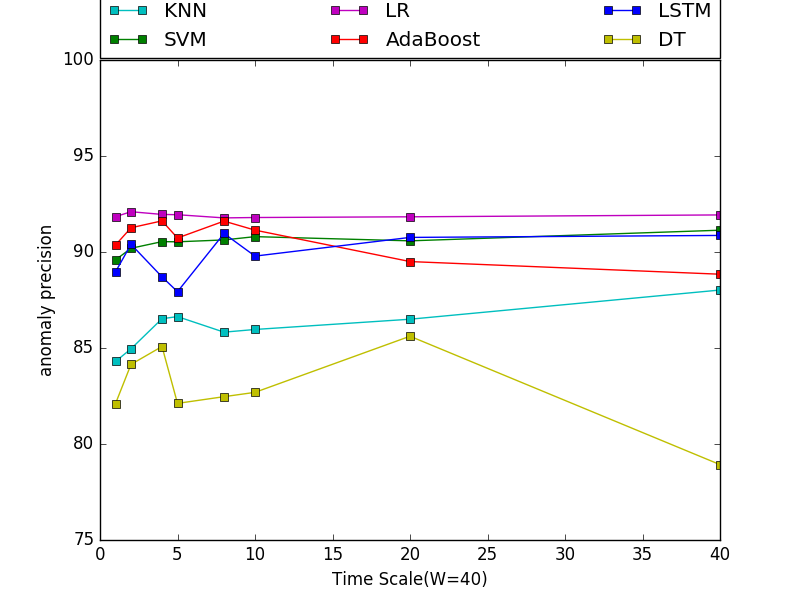
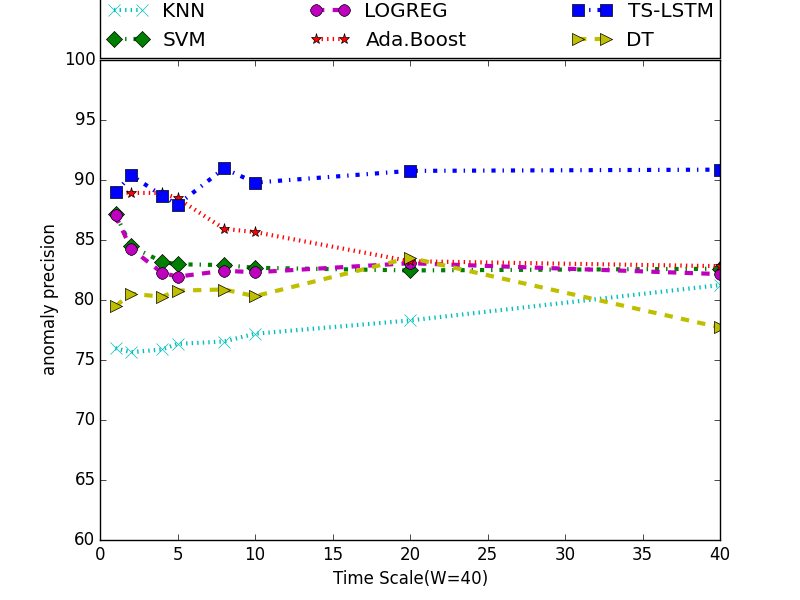
Add Plotting along with window size and time scale script.

diff --git a/BalancedDistribution/BD_plotting_time_scale.py b/BalancedDistribution/BD_plotting_time_scale.py
@@ -3,6 +3,7 @@ import random
 import numpy as np
 import collections
 import matplotlib.pyplot as plt
+from PIL import Image
 def get_all_subfactors(number):
     temp_list = []
     temp_list.append(1)
@@ -109,7 +110,7 @@ def Main(filename,window_size_list,lstm_size_list,Evaluation_List):
 
 if __name__=='__main__':
     global Normalization_Method
-    Normalization_Method = "_L2norm-1"
+    Normalization_Method = "_L2norm"
     filename = "B_C_N_S"
     if filename == "B_Code_Red_I" or filename == "B_Slammer":
         window_size_list = [10,20,30,40,50]
@@ -119,14 +120,19 @@ if __name__=='__main__':
             y_upper = 95
         else:
             y_upper = 100
-        window_size_list = [50]
-        y_base = 75
+        window_size_list = [40]
+        y_base = 60
 
     lstm_size_list = [30]
     Evaluation_List = ["ACC_R","ACC_A","ACC_L","Auc","G_mean","F1_score"]
 
     #color_list = ['r','g','b','c','m','y']
-    color_dict = {"KNN":'c',"AdaBoost":'r',"DT":'y',"LR":'m',"SVM":'g',"LSTM":'b'}
+    #color_dict = {"KNN":'c',"AdaBoost":'r',"DT":'y',"LR":'m',"SVM":'g',"LSTM":'b'}
+    #color_dict = {"KNN":'cx',"AdaBoost":'r*',"DT":'y>',"LR":'mo',"SVM":'gD',"LSTM":'bs'}
+    #line_dict = {"KNN":'-.',"AdaBoost":':',"DT":'--',"LR":'--',"SVM":':',"LSTM":'-.'}
+    color_dict = {"KNN":'cx',"AdaBoost":'r*',"DT":'y>',"LR":'mo',"SVM":'gD',"LSTM":'bs'}
+    method_dict = {"KNN":"KNN","AdaBoost":"Ada.Boost","DT":"DT","LR":"LOGREG","SVM":"SVM","LSTM":"TS-LSTM"}
+    line_dict = {"KNN":':',"AdaBoost":':',"DT":'--',"LR":'--',"SVM":'-.',"LSTM":'-.'}
     Evaluation_Dict,Evaluation_Dict_Max_Time_Scale,time_scale_size_list = Main(filename,window_size_list,lstm_size_list,Evaluation_List)
     if not os.path.isdir(os.path.join(os.getcwd(),"Images_W_"+str(window_size_list[0])+"_T_"+Normalization_Method)):
         os.makedirs(os.path.join(os.getcwd(),"Images_W_"+str(window_size_list[0])+"_T_"+Normalization_Method))
@@ -146,7 +152,7 @@ if __name__=='__main__':
             print("For "+eachMethod+": the max "+each_evalk+ " is "+str(round(np.max(Y),1)))
             #print(X)
             print(Y_max_time_scale)
-            plt.plot(X,Y,color_dict[eachMethod]+"-s",label=eachMethod)
+            plt.plot(X,Y,color_dict[eachMethod]+line_dict[eachMethod],linewidth=3,markersize=8,label=method_dict[eachMethod])
             #for i, txt in enumerate(Y_max_time_scale):
                 #plt.annotate('('+str(txt)+')', xy=(X[i],Y[i]),xycoords='data',xytext=(X[i],Y[i]),size = 8)
 
@@ -160,11 +166,13 @@ if __name__=='__main__':
             count += 1
         #print("start"),
         if each_evalk=="ACC_R":
-            plt.ylabel("regular precision")
+            plt.ylabel("Precision")
         elif each_evalk=="ACC_A":
             plt.ylabel("anomaly precision")
         elif each_evalk=="ACC_L":
-            plt.ylabel("accuracy")
+            plt.ylabel("Accuracy")
+        elif each_evalk=="F1_score":
+            plt.ylabel("F-score")
         else:
             plt.ylabel(each_evalk)
         plt.xlabel('Time Scale(W='+str(window_size_list[0])+')')
@@ -172,6 +180,12 @@ if __name__=='__main__':
         #plt.show()
 
         plt.savefig(os.path.join(os.path.join(os.getcwd(),"Images_W_"+str(window_size_list[0])+"_T_"+Normalization_Method),filename+'_'+title+".png"))
+        #fname = os.path.join(os.path.join(os.getcwd(),"Images_W_"+str(window_size_list[0])+"_T_"+Normalization_Method),filename+'_'+title+".png")
+        #image = Image.open(fname).convert("L")
+        #arr = np.asarray(image)
+        #print(arr.shape)
+        #plt.imshow(arr)
+        plt.show()
 #import matplotlib.rcsetup as rcsetup
 #print(rcsetup.all_backends)
 #import matplotlib

diff --git a/BalancedDistribution/BD_plotting_window_size.py b/BalancedDistribution/BD_plotting_window_size.py
@@ -103,6 +103,7 @@ if __name__=='__main__':
     global Normalization_Method
     Normalization_Method = "_L2norm"
     filename = "B_C_N_S"
+    marker_style = dict(linestyle=':', color='cornflowerblue', markersize=10)
     if filename == "B_Code_Red_I" or filename == "B_Slammer":
         window_size_list = [10,20,30,40,50]
         y_base = 50
@@ -118,10 +119,18 @@ if __name__=='__main__':
     Evaluation_List = ["ACC_R","ACC_A","ACC_L","Auc","G_mean","F1_score"]
 
     #color_list = ['r','g','b','c','m','y']
-    color_dict = {"KNN":'c',"AdaBoost":'r',"DT":'y',"LR":'m',"SVM":'g',"LSTM":'b'}
+    #color_dict = {"KNN":'c>',"AdaBoost":'r<',"DT":'yo',"LR":'m',"SVM":'g',"LSTM":'b'}
+
+    #color_dict = {"KNN":'cx',"AdaBoost":'rs',"DT":'y>',"LR":'mo',"SVM":'gD',"LSTM":'b*'}
+    color_dict = {"KNN":'cx',"AdaBoost":'r*',"DT":'y>',"LR":'mo',"SVM":'gD',"LSTM":'bs'}
+    method_dict = {"KNN":"KNN","AdaBoost":"Ada.Boost","DT":"DT","LR":"LOGREG","SVM":"SVM","LSTM":"TS-LSTM"}
+    #line_dict = {"KNN":':',"AdaBoost":'-.',"DT":'-.',"LR":'--',"SVM":':',"LSTM":'--'}
+    line_dict = {"KNN":':',"AdaBoost":':',"DT":'--',"LR":'--',"SVM":'-.',"LSTM":'-.'}
+
     Evaluation_Dict,Evaluation_Dict_Max_Time_Scale = Main(filename,window_size_list,lstm_size_list,Evaluation_List)
-    if not os.path.isdir(os.path.join(os.getcwd(),"Images_W_"+Normalization_Method)):
-        os.makedirs(os.path.join(os.getcwd(),"Images_W_"+Normalization_Method))
+
+    if not os.path.isdir(os.path.join(os.getcwd(),"Images_WWW_"+Normalization_Method)):
+        os.makedirs(os.path.join(os.getcwd(),"Images_WWW_"+Normalization_Method))
 
 
     for each_evalk,each_evalv in Evaluation_Dict.items():
@@ -139,9 +148,9 @@ if __name__=='__main__':
             print("For "+eachMethod+": the max "+each_evalk+ " is "+str(round(np.max(Y),1)))
             #print(X)
             #print(Y_max_time_scale)
-            plt.plot(X,Y,color_dict[eachMethod]+"s-",label=eachMethod)
+            plt.plot(X,Y,color_dict[eachMethod]+line_dict[eachMethod],linewidth=3,markersize=8,label=method_dict[eachMethod])
             for i, txt in enumerate(Y_max_time_scale):
-                plt.annotate('('+str(txt)+')', xy=(X[i],Y[i]),xycoords='data',xytext=(X[i],Y[i]),size = 8)
+                plt.annotate('('+str(txt)+')', xy=(X[i],Y[i]),xycoords='data',xytext=(X[i],Y[i]),size = 10)
 
 
             plt.xlim(10,window_size_list[-1]+5)
@@ -158,13 +167,20 @@ if __name__=='__main__':
         elif each_evalk=="ACC_A":
             plt.ylabel("anomaly precision")
         elif each_evalk=="ACC_L":
-            plt.ylabel("accuracy")
+            plt.ylabel("Accuracy")
+        elif each_evalk=="F1_score":
+            plt.ylabel("F-score")
         else:
             plt.ylabel(each_evalk)
         plt.xlabel('Window Size')
         #plt.show()
 
-        plt.savefig(os.path.join(os.path.join(os.getcwd(),"Images_W_"+Normalization_Method),filename+'_'+title+".png"))
+        plt.savefig(os.path.join(os.path.join(os.getcwd(),"Images_WWW_"+Normalization_Method),filename+'_'+title+".png"))
+        #image = plt.imread(os.path.join(os.path.join(os.getcwd(),"Images_W_"+Normalization_Method),filename+'_'+title+".png"))
+        #arr = np.asarray(image)
+        #plt.imshow(arr, cmap='gray')
+        plt.show()
+
 #import matplotlib.rcsetup as rcsetup
 #print(rcsetup.all_backends)
 #import matplotlib

diff --git a/BalancedDistribution/BD_S.py b/BalancedDistribution/BD_S.py
@@ -93,7 +93,9 @@ def LoadData(input_data_path,filename):
                 #print(each)
                 if val[-1].strip()== negative_flag:
                     val[-1] = negative_sign
-                #else:
+                else:
+                    if val[-1].strip() == '-1.0':
+                        val[-1] = '0'
                     #val[-1] = positive_sign
                 try:
                     val=map(lambda a:float(a),val)
@@ -169,9 +171,7 @@ def MyEvaluation(Y_Testing, Result):
         for tab1 in range(len(Result)):
             temp_result = map(lambda a:int(round(a)),Result[tab1])
             temp_true = map(lambda a:int(round(a)),Y_Testing[tab1])
-            print(type(temp_result))
-            print(temp_result)
-            print(temp_true)
+
             if list(temp_result) == list(temp_true):
                 acc += 1
     return round(float(acc)/len(Result),3)
@@ -228,9 +228,9 @@ def Main(Method_Dict,filename,window_size_label,lstm_size,window_size=0,time_sca
     Pos_Data = Data_[PositiveIndex]
     Neg_Data = Data_[NegativeIndex]
 
-    print(len(Data_[PositiveIndex,-1]))
+    print((Data_[PositiveIndex,-1]))
 
-    print(len(Data_[NegativeIndex,-1]))
+    print((Data_[NegativeIndex,-1]))
 
     Auc_list = {}
     ACC_R_list = {}
@@ -301,7 +301,7 @@ def Main(Method_Dict,filename,window_size_label,lstm_size,window_size=0,time_sca
                 cross_folder_f1_list=[]
 
                 for tab_cross in range(cross_folder):
-
+                    if tab_cross!=2:continue
                     Positive_Data_Index_Training=[]
                     Positive_Data_Index_Testing=[]
                     Negative_Data_Index_Training=[]
@@ -328,7 +328,7 @@ def Main(Method_Dict,filename,window_size_label,lstm_size,window_size=0,time_sca
 
                     #print(Training_Data_Index)
 
-                    Training_Data_Index = map(lambda a:int(a),Training_Data_Index)
+                    #Training_Data_Index = map(lambda a:int(a),Training_Data_Index)
 
                     #print(Training_Data_Index)
 
@@ -340,7 +340,7 @@ def Main(Method_Dict,filename,window_size_label,lstm_size,window_size=0,time_sca
 
                     Testing_Data_Index.sort()
 
-                    Testing_Data_Index = map(lambda a:int(a),Testing_Data_Index)
+                    #Testing_Data_Index = map(lambda a:int(a),Testing_Data_Index)
 
                     Testing_Data = Data_[Testing_Data_Index,:]
 
@@ -376,7 +376,7 @@ def Main(Method_Dict,filename,window_size_label,lstm_size,window_size=0,time_sca
                             model.add(Activation("sigmoid"))
                             model.compile(optimizer='adam', loss='binary_crossentropy', metrics=['accuracy'])
 
-                            model.fit(X_Training, Y_Training, batch_size=batch_size, nb_epoch=20)
+                            model.fit(X_Training, Y_Training,validation_data=(X_Testing,Y_Testing), batch_size=batch_size, nb_epoch=100)
                             #history = History()
                             #print("HHHHHHHHHHHHHHHHHHHHHH")
                             #print(history)

diff --git a/BalancedDistribution/Plot_Traing_Valid_Loss.py b/BalancedDistribution/Plot_Traing_Valid_Loss.py
@@ -1,27 +1,59 @@
 import matplotlib.pyplot as plt
+filename = "Loss_Ploting_40_8_c1.txt"
+Loss_List_1 = []
+Val_Loss_List_1 = []
+with open(filename)as fin:
+    for each in fin.readlines():
+        if 'loss' in each:
+            loss_index = each.strip().index('loss:')
+            val_loss_index = each.strip().index('val_loss:')
+            Loss_List_1.append(float(each.strip()[loss_index+6:loss_index+12]))
+            Val_Loss_List_1.append(float(each.strip()[val_loss_index+10:val_loss_index+16]))
+X1 = []
+if len(Loss_List_1)==len(Val_Loss_List_1):
+    for tab in range(len(Loss_List_1)):
+        X1.append(tab+1)
 
-class EpochDrawer(object):
-    '''
-    takes the history of keras.models.Sequential().fit() and
-    plots training and validation loss over the epochs
-    '''
-    def __init__(self, history, save_filename = None):
+filename = "Loss_Ploting_40_8_c2.txt"
+Loss_List_2 = []
+Val_Loss_List_2 = []
+with open(filename)as fin:
+    for each in fin.readlines():
+        if 'loss' in each:
+            loss_index = each.strip().index('loss:')
+            val_loss_index = each.strip().index('val_loss:')
+            Loss_List_2.append(float(each.strip()[loss_index+6:loss_index+12]))
+            Val_Loss_List_2.append(float(each.strip()[val_loss_index+10:val_loss_index+16]))
 
-        self.x = history['epoch']
-        self.legend = ['loss']
 
-        plt.plot(self.x, history['loss'], marker='.')
 
-        if 'val_loss' in history:
-            self.legend.append('val loss')
-            plt.plot(self.x, history['val_loss'], marker='.')
+filename = "Loss_Ploting_40_8_c3.txt"
+Loss_List_3 = []
+Val_Loss_List_3 = []
+with open(filename)as fin:
+    for each in fin.readlines():
+        if 'loss' in each:
+            loss_index = each.strip().index('loss:')
+            val_loss_index = each.strip().index('val_loss:')
+            Loss_List_3.append(float(each.strip()[loss_index+6:loss_index+12]))
+            Val_Loss_List_3.append(float(each.strip()[val_loss_index+10:val_loss_index+16]))
 
-        plt.title('Loss over epochs')
-        plt.xlabel('Epochs')
-        plt.xticks(history['epoch'], history['epoch'])
-        plt.legend(self.legend, loc = 'upper right')
+Loss_List = []
+Val_Loss_List = []
+for tab in range(len(X1)):
+    temp = float(Loss_List_1[tab] + Loss_List_2[tab] + Loss_List_3[tab])/3
+    Loss_List.append(temp)
 
-        if save_filename is not None:
-            plt.savefig(save_filename)
+for tab in range(len(X1)):
+    temp = float(Val_Loss_List_1[tab] + Val_Loss_List_2[tab] + Val_Loss_List_3[tab])/3
+    Val_Loss_List.append(temp)
 
-        plt.show()
+
+
+plt.plot(X1,Loss_List,'b--',markersize=8,linewidth=3,label='Train Loss')
+plt.plot(X1,Val_Loss_List,'gx-.',markersize=8,linewidth=3,label='Validation Loss')
+plt.legend()
+plt.xlabel('Epochs Num ')
+plt.ylabel('Loss')
+plt.grid()
+plt.show()

diff --git a/BalancedDistribution/BD.py b/BalancedDistribution/BD.py
@@ -496,7 +496,7 @@ if __name__=='__main__':
     Normalization_Method = "_L2norm"
     window_size_label_list = ['true','false']
     #window_size_list = [10,20,30,40,50,60]
-    window_size_list = [10]
+    window_size_list = [40]
     filenamelist=os.listdir(input_data_path)
     lstm_size_list = [25]
 
@@ -511,8 +511,8 @@ if __name__=='__main__':
         for lstm_size in lstm_size_list:
             for window_size_label in window_size_label_list:
                 if window_size_label == 'true':
-                    #Method_Dict={"LSTM":0}
-                    Method_Dict = {"LSTM": 0, "AdaBoost": 1, "DT": 2, "SVM": 3, "LR": 4, "KNN": 5}
+                    Method_Dict={"LSTM":0}
+                    #Method_Dict = {"LSTM": 0, "AdaBoost": 1, "DT": 2, "SVM": 3, "LR": 4, "KNN": 5}
                     for window_size in window_size_list:
                         time_scale_size_list = get_all_subfactors(window_size)
                         output_data_path = os.path.join(os.getcwd(),'Window_Size_' + str(window_size) + '_LS_' + str(lstm_size)+Normalization_Method)
